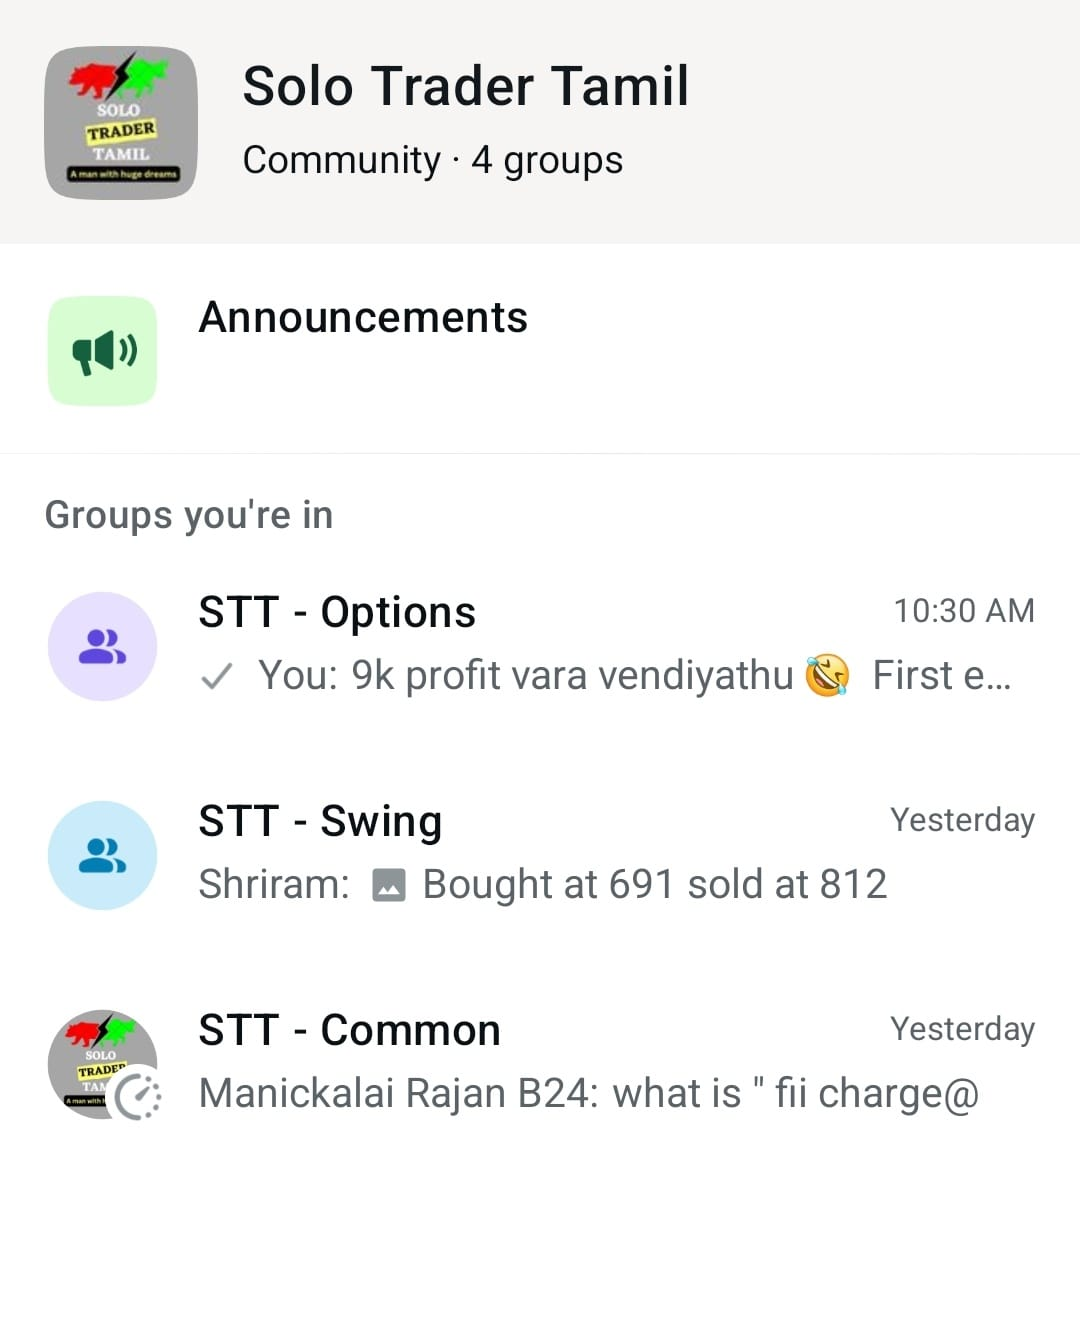
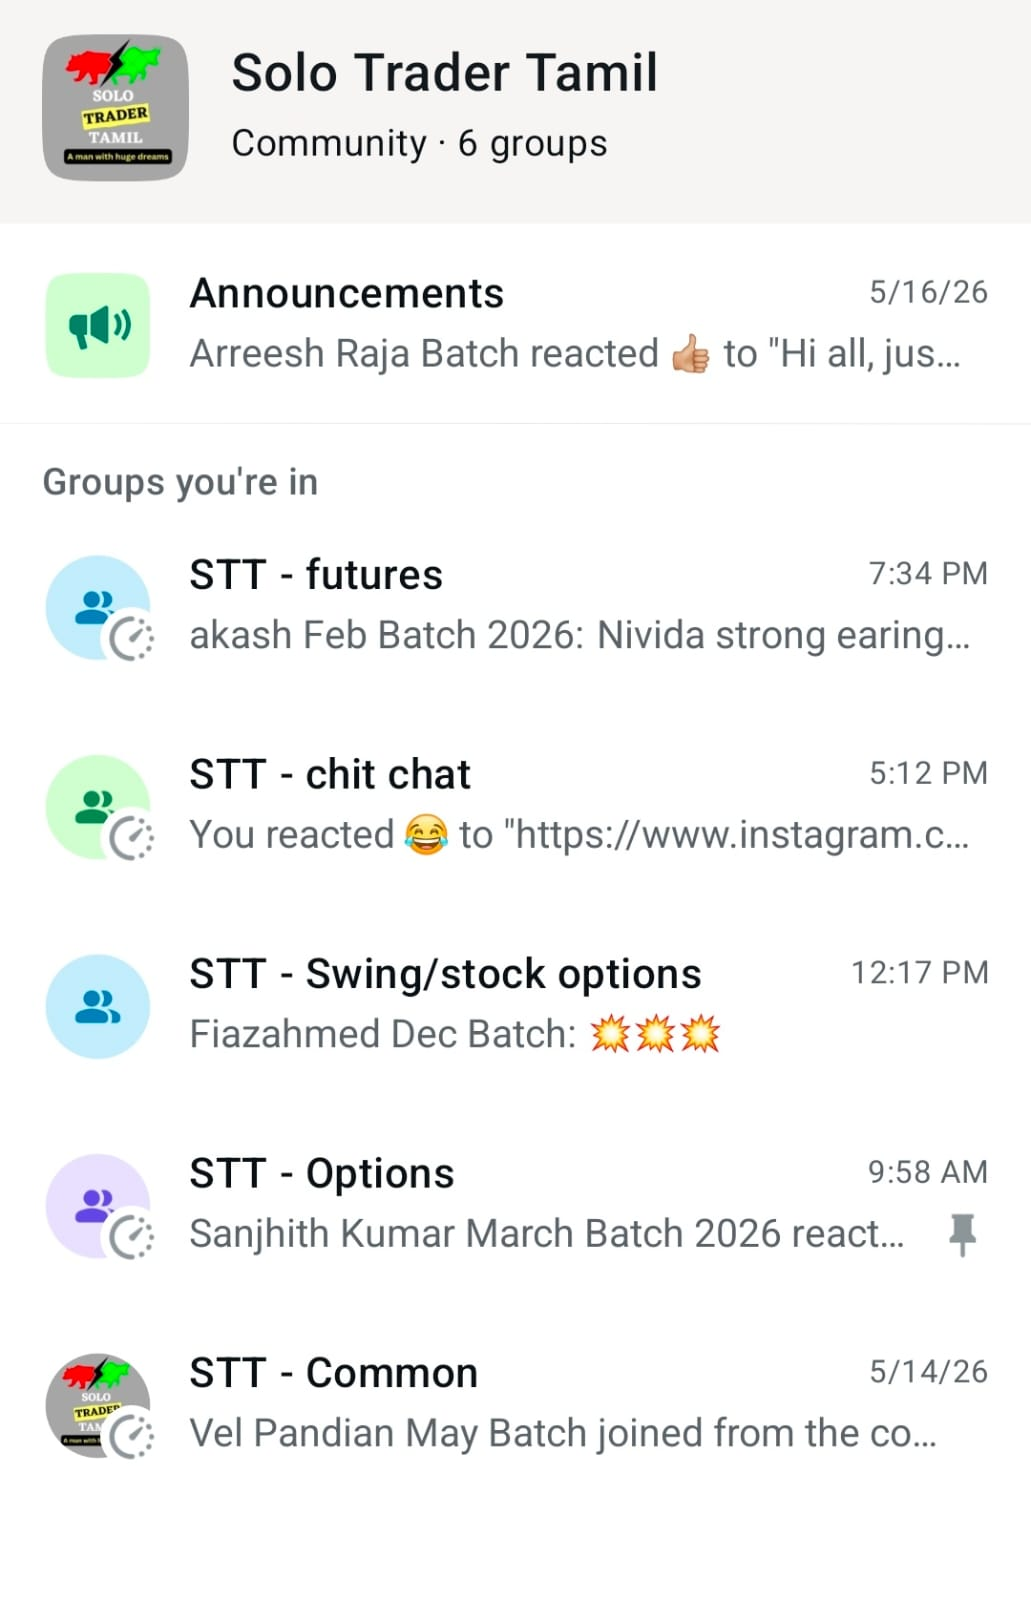
course update

diff --git a/src/CourseDetails.jsx b/src/CourseDetails.jsx
@@ -69,6 +69,14 @@ const communityGroups = [
     title: "STT - Swing",
     description: "Stocks that are ready for swing entries are posted regularly",
   },
+  {
+    title: "STT - Futures",
+    description: "Discussion on futures trading on coindcx",
+  },
+  {
+    title: "STT - chit chat",
+    description: "random discussion on market, sharing profit screenshots",
+  },
 ];
 
 const Logo = styled.img`
@@ -332,32 +340,26 @@ const CourseDetails = () => {
           <h3>Mode of training: Online via zoom</h3>
           <div className="pricing-summary">
             <p>
-              <strong>Course fee:</strong> ₹6,000
+              <strong>Course fee:</strong> ₹6,999 + 1 month community access
             </p>
             <p>
-              <strong>Community fee (one-time):</strong> ₹5,000
-            </p>
-            <p>
-              <strong>Course + Community combo:</strong>{" "}
-              <s style={{ color: "#999" }}>₹11,000</s>{" "}
-              <strong style={{ color: "#00FF00", fontSize: "18px" }}>
-                ₹8,899
-              </strong>
+              <strong>Community fee (from month 2):</strong> ₹999/month
             </p>
           </div>
           <div className="flow">
             <strong>Simple registration flow</strong>
             <div className="flow-item">
               <p>
-                <strong>Step 1:</strong> Choose whether you want the course only
-                (₹6,000) or the course + community support combo (₹8,899). Note:
-                Community support is available only for course students.
+                <strong>Step 1:</strong> Register for the course at ₹6,999 (includes
+                1 month community access). Note: Community support is available
+                only for course students.
               </p>
             </div>
             <div className="flow-item">
               <p>
-                <strong>Step 2:</strong> Pay ₹6,000 for course-only{" "}
-                <strong>or ₹8,899 for combo (course + community)</strong>.
+                <strong>Step 2:</strong> Pay ₹6,999 for course registration. From
+                month 2 onward, community access is ₹999/month if you wish to
+                continue.
               </p>
             </div>
             <div className="flow-item">
@@ -385,12 +387,12 @@ const CourseDetails = () => {
           <div className="live-course">
             <AdvancedCourseContent>
               <div className="heading">
-                <h2>NEXT BATCH : May 08th, 2026</h2>
+                <h2>NEXT BATCH : June 05th, 2026</h2>
                 <h3>Solo Trader Tamil</h3>
                 <p>Stock market end to end live course </p>
                 <p>
-                  Duration: 6 Days <br />
-                  Fee: 6000 rs
+                  Duration: 6 Days  + 2 days doubt session<br />
+                  Fee: ₹6,999 + 1 month community access
                 </p>
                 <b>
                   Classes will be on <br /> Friday, saturday, sunday and monday
@@ -421,8 +423,8 @@ const CourseDetails = () => {
                 ------------------------------------------
                 ------------------------------------------
                 <br></br>
-                For Solo Trader Tamil community support check One time premium
-                subscription
+                For Solo Trader Tamil community support: ₹999/month after the
+                first month (included with course fee)
               </div>
             </AdvancedCourseContent>
           </div>
@@ -441,19 +443,17 @@ const CourseDetails = () => {
                   </span>
                 </h4>
                 <p className="community-fee">
-                  <strong>Community fee (one-time):</strong> ₹5,000
+                  <strong>Included with course:</strong> 1 month community access
+                  (with ₹6,999 course fee)
+                  <br />
+                  <br />
+                  <strong>Community fee (from month 2):</strong> ₹999/month
                   <br />
                   <span style={{ fontSize: "14px" }}>
-                    One-time payment for lifetime access
+                    Pay monthly to continue community access after the first month
                   </span>
-                  <br />
-                  <br />
-                  <strong>Combo offer (Course + Community):</strong>{" "}
-                  <s style={{ color: "#ccc" }}>₹11,000</s>{" "}
-                  <strong style={{ color: "#00FF00" }}>₹8,899</strong> for
-                  course + community
                 </p>
-                <p>Solo Trader Tamil community includes three groups</p>
+                <p>Solo Trader Tamil community includes five groups</p>
                 <img
                   src={community}
                   alt="Community"

diff --git a/src/StudentsProfits.jsx b/src/StudentsProfits.jsx
@@ -55,7 +55,7 @@ const StudentsProfits = () => {
       <h2>My live trade recordings</h2>
       <div>
         <iframe
-          src="https://www.instagram.com/reel/C3osP0FPD05/embed/"
+          src="https://www.instagram.com/reel/DYWJ4n7RZ2l/embed/"
           width="400"
           height="500"
           frameborder="0"
